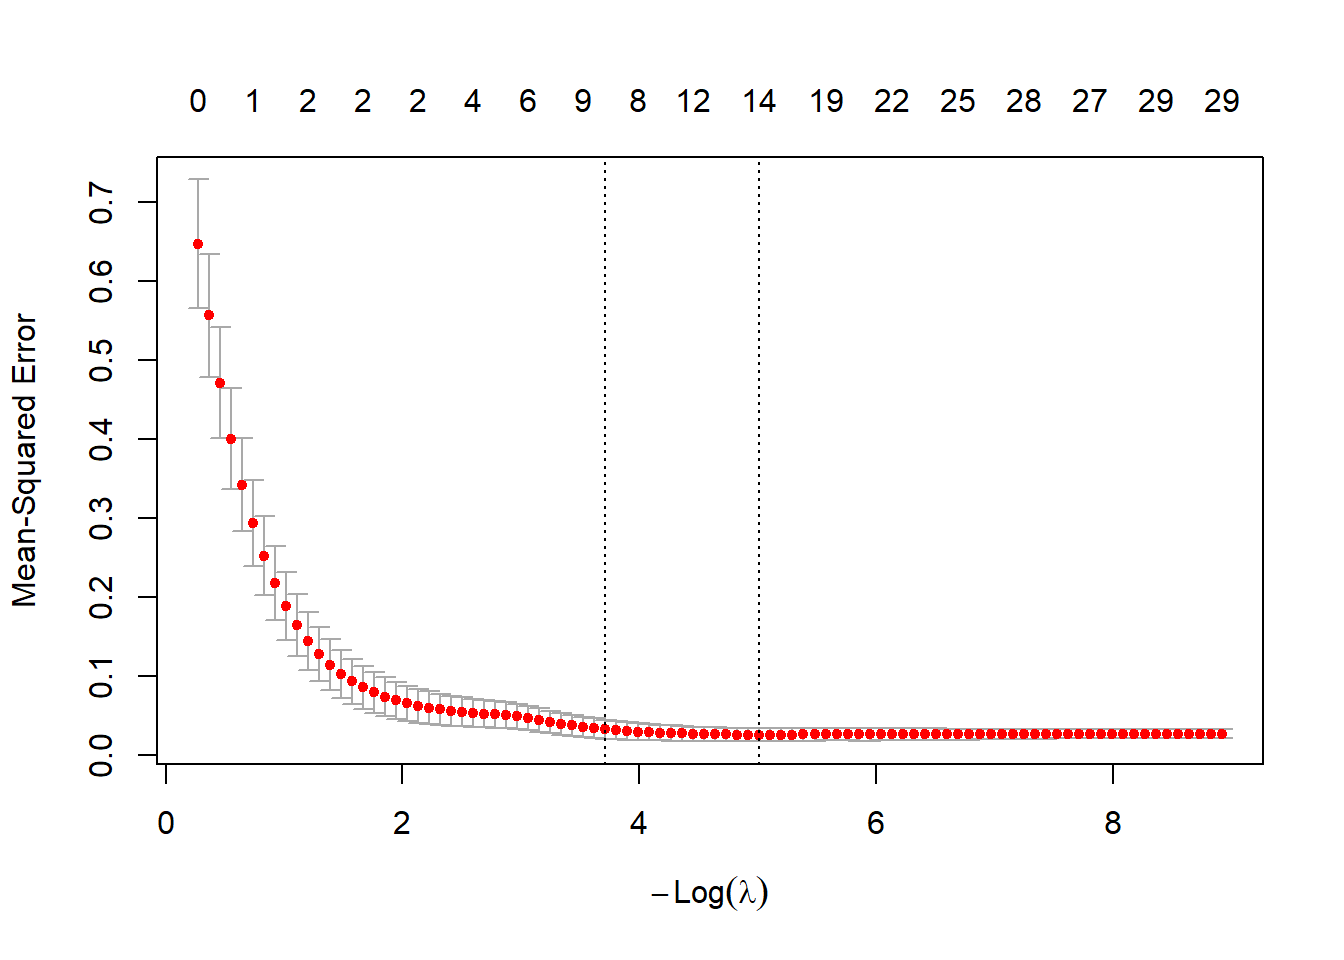
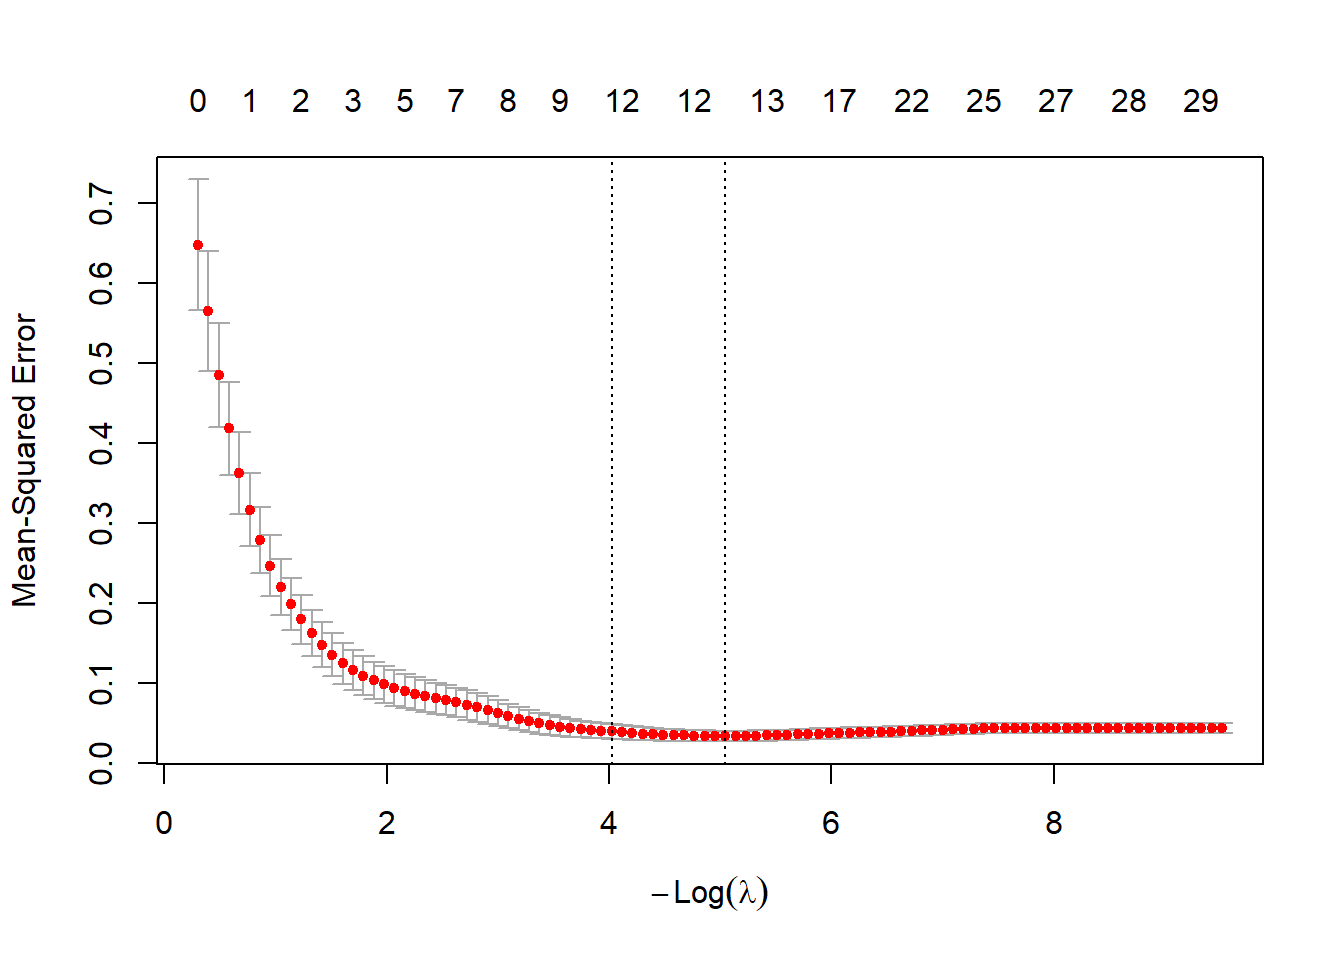
Built site for gh-pages

diff --git a/index.html b/index.html
@@ -7,7 +7,7 @@
 <meta name="viewport" content="width=device-width, initial-scale=1.0, user-scalable=yes">
 
 
-<title>Modelamiento de la proporción de pobreza para 2014 en chicago utilizando regresión espacial – Estadística Espacial</title>
+<title>Modelación de la proporción de pobreza para 2014 en chicago utilizando regresión espacial – Estadística Espacial</title>
 <style>
 code{white-space: pre-wrap;}
 span.smallcaps{font-variant: small-caps;}
@@ -224,7 +224,7 @@ window.Quarto = {
 
 <header id="title-block-header" class="quarto-title-block default">
 <div class="quarto-title">
-<h1 class="title">Modelamiento de la proporción de pobreza para 2014 en chicago utilizando regresión espacial</h1>
+<h1 class="title">Modelación de la proporción de pobreza para 2014 en chicago utilizando regresión espacial</h1>
 </div>
 
 
@@ -295,7 +295,7 @@ window.Quarto = {
 <span id="cb2-13"><a href="#cb2-13" aria-hidden="true" tabindex="-1"></a>datosmod1 <span class="ot">=</span> datos1[<span class="sc">-</span><span class="fu">c</span>(<span class="dv">1</span><span class="sc">:</span><span class="dv">5</span>)]</span>
 <span id="cb2-14"><a href="#cb2-14" aria-hidden="true" tabindex="-1"></a>datosmod1<span class="sc">$</span>Pov14P <span class="ot">&lt;-</span> datos<span class="sc">$</span>Pov14<span class="sc">/</span>datos<span class="sc">$</span>Pop2014</span>
 <span id="cb2-15"><a href="#cb2-15" aria-hidden="true" tabindex="-1"></a></span>
-<span id="cb2-16"><a href="#cb2-16" aria-hidden="true" tabindex="-1"></a>dfmod1 <span class="ot">&lt;-</span> datosmod1[,<span class="sc">-</span><span class="dv">30</span>] <span class="co"># Data que o incluye la variable de interés</span></span></code></pre></div><button title="Copy to Clipboard" class="code-copy-button"><i class="bi"></i></button></div>
+<span id="cb2-16"><a href="#cb2-16" aria-hidden="true" tabindex="-1"></a>dfmod1 <span class="ot">&lt;-</span> datosmod1[,<span class="sc">-</span><span class="dv">32</span>] <span class="co"># Data que no incluye la variable de interés</span></span></code></pre></div><button title="Copy to Clipboard" class="code-copy-button"><i class="bi"></i></button></div>
 </div>
 <p>Es importante subir el archivo <em>.shp</em> y definir las coordenadas,pues este nos permite generar mapas y es necesario para el calculo de la matriz <span class="math inline">\(W\)</span>. De esta forma:</p>
 <div class="cell">
@@ -320,10 +320,10 @@ window.Quarto = {
 <span id="cb4-3"><a href="#cb4-3" aria-hidden="true" tabindex="-1"></a>            <span class="at">x =</span> <span class="sc">~</span>Pov14P,</span>
 <span id="cb4-4"><a href="#cb4-4" aria-hidden="true" tabindex="-1"></a>            <span class="at">type =</span> <span class="st">"box"</span>) <span class="sc">%&gt;%</span> </span>
 <span id="cb4-5"><a href="#cb4-5" aria-hidden="true" tabindex="-1"></a>  <span class="fu">layout</span>(<span class="at">title =</span> <span class="st">"Proporción de personas en pobreza en 2014 de Chicago"</span>,</span>
-<span id="cb4-6"><a href="#cb4-6" aria-hidden="true" tabindex="-1"></a>         <span class="at">Xaxis =</span> <span class="fu">list</span>(<span class="at">title =</span> <span class="st">"Proporción de personas en pobreza"</span>))</span></code></pre></div><button title="Copy to Clipboard" class="code-copy-button"><i class="bi"></i></button></div>
+<span id="cb4-6"><a href="#cb4-6" aria-hidden="true" tabindex="-1"></a>         <span class="at">xaxis =</span> <span class="fu">list</span>(<span class="at">title =</span> <span class="st">"Proporción de personas en pobreza"</span>))</span></code></pre></div><button title="Copy to Clipboard" class="code-copy-button"><i class="bi"></i></button></div>
 <div class="cell-output-display">
-<div class="plotly html-widget html-fill-item" id="htmlwidget-99affdc7935488bc00f0" style="width:100%;height:464px;"></div>
-<script type="application/json" data-for="htmlwidget-99affdc7935488bc00f0">{"x":{"visdat":{"587832a13980":["function () ","plotlyVisDat"],"58784a1963e0":["function () ","data"]},"cur_data":"58784a1963e0","attrs":{"58784a1963e0":{"alpha_stroke":1,"sizes":[10,100],"spans":[1,20],"x":{},"type":"box","inherit":true}},"layout":{"margin":{"b":40,"l":60,"t":25,"r":10},"title":"Proporción de personas en pobreza en 2014 de Chicago","Xaxis":{"title":"Proporción de personas en pobreza"},"xaxis":{"domain":[0,1],"automargin":true,"title":"Pov14P"},"yaxis":{"domain":[0,1],"automargin":true},"hovermode":"closest","showlegend":false},"source":"A","config":{"modeBarButtonsToAdd":["hoverclosest","hovercompare"],"showSendToCloud":false},"data":[{"fillcolor":"rgba(31,119,180,0.5)","x":[0.32058672156459084,0.38621968175498222,0.36453008257963038,0.33678043584394834,0.23231047922270406,0.13009836397198271,0.47651755816948571,0.19932596891967796,0.35908215787198933,0.2574428278204639,0.088341056533827622,0.049788938196774546,0.12011296932107653,0.18913659550349518,0.14574634858056404,0.13804213135068152,0.1095394049195178,0.14447040498442368,0.20952585716273128,0.1884030183924732,0.21956031567080045,0.19058209985428332,0.19299169536155561,0.34194258460974042,0.15714133232130362,0.31787866935443432,0.4765157532433148,0.42385674115731836,0.24621810217490958,0.44465654212166295,0.23474899189819096,0.3288923038926469,0.28991680722719348,0.097770310158485085,0.37314079422382673,0.062384955972339687,0.12543739991696815,0.12140199725866457,0.34798017043592266,0.2632966055948941,0.18003565062388591,0.33530647985989492,0.31932773109243695,0.1517910447761194,0.26304018795039191,0.055866724113169612,0.26140602582496414,0.27116249197174053,0.22460929272505159,0.33210991906644083,0.62767732962447842,0.17070036410366246,0.079267766168724635,0.15159308472638949,0.26992975300249261,0.24524287190710681,0.11570104523926179,0.20539152759948653,0.35292562142410694,0.16003130707018001,0.24209405413437013,0.1000327171601505,0.18768109448277923,0.32856660686053329,0.38614612511671337,0.49617174048430229,0.37900697129288563,0.11920971630452912,0.12621177789717117,0.30507655793829158,0.035996571755070948,0.17998865140911671,0.037424415754208205,0.18092150170648463,0.19735599622285174,0.17461466097402129,0.024470117347402894],"type":"box","orientation":"h","marker":{"color":"rgba(31,119,180,1)","line":{"color":"rgba(31,119,180,1)"}},"line":{"color":"rgba(31,119,180,1)"},"xaxis":"x","yaxis":"y","frame":null}],"highlight":{"on":"plotly_click","persistent":false,"dynamic":false,"selectize":false,"opacityDim":0.20000000000000001,"selected":{"opacity":1},"debounce":0},"shinyEvents":["plotly_hover","plotly_click","plotly_selected","plotly_relayout","plotly_brushed","plotly_brushing","plotly_clickannotation","plotly_doubleclick","plotly_deselect","plotly_afterplot","plotly_sunburstclick"],"base_url":"https://plot.ly"},"evals":[],"jsHooks":[]}</script>
+<div class="plotly html-widget html-fill-item" id="htmlwidget-f229e92830e59c114522" style="width:100%;height:464px;"></div>
+<script type="application/json" data-for="htmlwidget-f229e92830e59c114522">{"x":{"visdat":{"27487cd3515d":["function () ","plotlyVisDat"],"27481de45a4f":["function () ","data"]},"cur_data":"27481de45a4f","attrs":{"27481de45a4f":{"alpha_stroke":1,"sizes":[10,100],"spans":[1,20],"x":{},"type":"box","inherit":true}},"layout":{"margin":{"b":40,"l":60,"t":25,"r":10},"title":"Proporción de personas en pobreza en 2014 de Chicago","xaxis":{"domain":[0,1],"automargin":true,"title":"Proporción de personas en pobreza"},"yaxis":{"domain":[0,1],"automargin":true},"hovermode":"closest","showlegend":false},"source":"A","config":{"modeBarButtonsToAdd":["hoverclosest","hovercompare"],"showSendToCloud":false},"data":[{"fillcolor":"rgba(31,119,180,0.5)","x":[0.32058672156459084,0.38621968175498222,0.36453008257963038,0.33678043584394834,0.23231047922270406,0.13009836397198271,0.47651755816948571,0.19932596891967796,0.35908215787198933,0.2574428278204639,0.088341056533827622,0.049788938196774546,0.12011296932107653,0.18913659550349518,0.14574634858056404,0.13804213135068152,0.1095394049195178,0.14447040498442368,0.20952585716273128,0.1884030183924732,0.21956031567080045,0.19058209985428332,0.19299169536155561,0.34194258460974042,0.15714133232130362,0.31787866935443432,0.4765157532433148,0.42385674115731836,0.24621810217490958,0.44465654212166295,0.23474899189819096,0.3288923038926469,0.28991680722719348,0.097770310158485085,0.37314079422382673,0.062384955972339687,0.12543739991696815,0.12140199725866457,0.34798017043592266,0.2632966055948941,0.18003565062388591,0.33530647985989492,0.31932773109243695,0.1517910447761194,0.26304018795039191,0.055866724113169612,0.26140602582496414,0.27116249197174053,0.22460929272505159,0.33210991906644083,0.62767732962447842,0.17070036410366246,0.079267766168724635,0.15159308472638949,0.26992975300249261,0.24524287190710681,0.11570104523926179,0.20539152759948653,0.35292562142410694,0.16003130707018001,0.24209405413437013,0.1000327171601505,0.18768109448277923,0.32856660686053329,0.38614612511671337,0.49617174048430229,0.37900697129288563,0.11920971630452912,0.12621177789717117,0.30507655793829158,0.035996571755070948,0.17998865140911671,0.037424415754208205,0.18092150170648463,0.19735599622285174,0.17461466097402129,0.024470117347402894],"type":"box","orientation":"h","marker":{"color":"rgba(31,119,180,1)","line":{"color":"rgba(31,119,180,1)"}},"line":{"color":"rgba(31,119,180,1)"},"xaxis":"x","yaxis":"y","frame":null}],"highlight":{"on":"plotly_click","persistent":false,"dynamic":false,"selectize":false,"opacityDim":0.20000000000000001,"selected":{"opacity":1},"debounce":0},"shinyEvents":["plotly_hover","plotly_click","plotly_selected","plotly_relayout","plotly_brushed","plotly_brushing","plotly_clickannotation","plotly_doubleclick","plotly_deselect","plotly_afterplot","plotly_sunburstclick"],"base_url":"https://plot.ly"},"evals":[],"jsHooks":[]}</script>
 </div>
 </div>
 <table class="caption-top table">
@@ -497,9 +497,9 @@ window.Quarto = {
 <p>De esta forma las variables seleccionadas para el lambda que minimiza son:</p>
 <div class="cell">
 <div class="code-copy-outer-scaffold"><div class="sourceCode cell-code" id="cb11"><pre class="sourceCode r code-with-copy"><code class="sourceCode r"><span id="cb11-1"><a href="#cb11-1" aria-hidden="true" tabindex="-1"></a>Lassonorm <span class="ot">&lt;-</span> <span class="fu">lm</span>(Pov14P <span class="sc">~</span> PopChng <span class="sc">+</span> Under5P <span class="sc">+</span> Under18P <span class="sc">+</span> Over65P <span class="sc">+</span></span>
-<span id="cb11-2"><a href="#cb11-2" aria-hidden="true" tabindex="-1"></a>                  Blk14P <span class="sc">+</span> AS14P <span class="sc">+</span> AI14P <span class="sc">+</span> NHP14P <span class="sc">+</span> Oth14P <span class="sc">+</span> Hisp14P <span class="sc">+</span></span>
-<span id="cb11-3"><a href="#cb11-3" aria-hidden="true" tabindex="-1"></a>                  PropCrRt <span class="sc">+</span> VlntCrRt <span class="sc">+</span> NoHS14 <span class="sc">+</span> ClgGrad14 <span class="sc">+</span></span>
-<span id="cb11-4"><a href="#cb11-4" aria-hidden="true" tabindex="-1"></a>                  HISave <span class="sc">+</span> SESave , <span class="at">data =</span> datosmod1)</span></code></pre></div><button title="Copy to Clipboard" class="code-copy-button"><i class="bi"></i></button></div>
+<span id="cb11-2"><a href="#cb11-2" aria-hidden="true" tabindex="-1"></a>                  Wht14P <span class="sc">+</span> Blk14P <span class="sc">+</span> NHP14P <span class="sc">+</span> Oth14P <span class="sc">+</span> </span>
+<span id="cb11-3"><a href="#cb11-3" aria-hidden="true" tabindex="-1"></a>                  PropCrRt <span class="sc">+</span> NoHS14 <span class="sc">+</span> ClgGrad14 <span class="sc">+</span></span>
+<span id="cb11-4"><a href="#cb11-4" aria-hidden="true" tabindex="-1"></a>                  Pov200P , <span class="at">data =</span> datosmod1)</span></code></pre></div><button title="Copy to Clipboard" class="code-copy-button"><i class="bi"></i></button></div>
 </div>
 </section>
 <section id="modelo-beta" class="level3">
@@ -514,9 +514,9 @@ window.Quarto = {
 </div>
 <p>De modo que las variables seleccionadas son:</p>
 <div class="cell">
-<div class="code-copy-outer-scaffold"><div class="sourceCode cell-code" id="cb13"><pre class="sourceCode r code-with-copy"><code class="sourceCode r"><span id="cb13-1"><a href="#cb13-1" aria-hidden="true" tabindex="-1"></a>Lassobet <span class="ot">&lt;-</span> betareg<span class="sc">::</span><span class="fu">betareg</span>(Pov14P <span class="sc">~</span> PopChng <span class="sc">+</span> Under18P <span class="sc">+</span> Over65P <span class="sc">+</span> Wht14P <span class="sc">+</span></span>
-<span id="cb13-2"><a href="#cb13-2" aria-hidden="true" tabindex="-1"></a>                               AI14P <span class="sc">+</span> NHP14P <span class="sc">+</span> Oth14P <span class="sc">+</span> VlntCrRt <span class="sc">+</span></span>
-<span id="cb13-3"><a href="#cb13-3" aria-hidden="true" tabindex="-1"></a>                               ClgGrad14 <span class="sc">+</span> HISave <span class="sc">+</span> SESave,</span>
+<div class="code-copy-outer-scaffold"><div class="sourceCode cell-code" id="cb13"><pre class="sourceCode r code-with-copy"><code class="sourceCode r"><span id="cb13-1"><a href="#cb13-1" aria-hidden="true" tabindex="-1"></a>Lassobet <span class="ot">&lt;-</span> betareg<span class="sc">::</span><span class="fu">betareg</span>(Pov14P <span class="sc">~</span> PopChng <span class="sc">+</span> Under5P <span class="sc">+</span> Under18P <span class="sc">+</span> Over21P <span class="sc">+</span> Over65P <span class="sc">+</span> Wht14P <span class="sc">+</span> Blk14P <span class="sc">+</span> </span>
+<span id="cb13-2"><a href="#cb13-2" aria-hidden="true" tabindex="-1"></a>                               AI14P <span class="sc">+</span> NHP14P <span class="sc">+</span> Oth14P <span class="sc">+</span> PropCrRt <span class="sc">+</span> ChldPov14 <span class="sc">+</span> NoHS14 <span class="sc">+</span> </span>
+<span id="cb13-3"><a href="#cb13-3" aria-hidden="true" tabindex="-1"></a>                               ClgGrad14 <span class="sc">+</span> Unemp14 <span class="sc">+</span> Pov200P,</span>
 <span id="cb13-4"><a href="#cb13-4" aria-hidden="true" tabindex="-1"></a>                             <span class="at">data =</span> datosmod1 , <span class="at">link =</span> <span class="st">"logit"</span>)</span></code></pre></div><button title="Copy to Clipboard" class="code-copy-button"><i class="bi"></i></button></div>
 </div>
 </section>
@@ -524,22 +524,18 @@ window.Quarto = {
 <section id="correlación-y-multicolinealidad" class="level2">
 <h2 class="anchored" data-anchor-id="correlación-y-multicolinealidad">Correlación y multicolinealidad</h2>
 <p>Para cada uno de los conjuntos de variables elegidas se realizará un <em>pairplot</em> y se calculará el <em>Factor de Inflación de Varianza</em> (VIF) para determinar la multicolinealidad, es importante tener en cuenta que se reportaran correlaciones altas <span class="math inline">\((\rho &gt; 0.7)\)</span> y valores graves de multicolinealidad <span class="math inline">\((VIF &gt; 10)\)</span>. El conjunto de variables seleccionado para cada uno de los métodos es:</p>
-<section id="nota-recordemos-que-el-vif_j-frac11---r2_j-por-lo-que-observar-correlaciones-altas-pueden-ser-un-indicio-de-un-vif-alto-esta-condición-no-es-necesaria-ni-suficiente-y-por-tanto-de-multicolinealidad-grave." class="level5">
-<h5 class="anchored" data-anchor-id="nota-recordemos-que-el-vif_j-frac11---r2_j-por-lo-que-observar-correlaciones-altas-pueden-ser-un-indicio-de-un-vif-alto-esta-condición-no-es-necesaria-ni-suficiente-y-por-tanto-de-multicolinealidad-grave.">Nota: Recordemos que el <span class="math inline">\(VIF_j = \frac{1}{1 - R^2_j}\)</span>, por lo que observar correlaciones altas pueden ser un indicio de un VIF alto (esta condición no es necesaria ni suficiente), y por tanto de multicolinealidad grave.</h5>
-</section>
+<p><em><strong>Nota:</strong> Recordemos que el</em> <span class="math inline">\(VIF_j = \frac{1}{1 - R^2_j}\)</span><em>, por lo que observar correlaciones altas pueden ser un indicio de un VIF alto (esta condición no es necesaria ni suficiente), y por tanto de multicolinealidad grave.</em></p>
 <section id="modelo-normal-1" class="level3">
 <h3 class="anchored" data-anchor-id="modelo-normal-1">Modelo Normal</h3>
 <div class="cell">
 <div class="code-copy-outer-scaffold"><div class="sourceCode cell-code" id="cb14"><pre class="sourceCode r code-with-copy"><code class="sourceCode r"><span id="cb14-1"><a href="#cb14-1" aria-hidden="true" tabindex="-1"></a>df1 <span class="ot">=</span> datosmod1 <span class="sc">%&gt;%</span> dplyr<span class="sc">::</span><span class="fu">select</span>(<span class="fu">c</span>(PopChng , Under5P , Under18P , Over65P ,</span>
-<span id="cb14-2"><a href="#cb14-2" aria-hidden="true" tabindex="-1"></a>                  Blk14P , AS14P , AI14P , NHP14P , Oth14P , Hisp14P ,</span>
-<span id="cb14-3"><a href="#cb14-3" aria-hidden="true" tabindex="-1"></a>                  PropCrRt , VlntCrRt , NoHS14 , ClgGrad14 ,</span>
-<span id="cb14-4"><a href="#cb14-4" aria-hidden="true" tabindex="-1"></a>                  HISave , SESave))</span></code></pre></div><button title="Copy to Clipboard" class="code-copy-button"><i class="bi"></i></button></div>
+<span id="cb14-2"><a href="#cb14-2" aria-hidden="true" tabindex="-1"></a>                  Wht14P , Blk14P , NHP14P , Oth14P , </span>
+<span id="cb14-3"><a href="#cb14-3" aria-hidden="true" tabindex="-1"></a>                  PropCrRt , NoHS14 , ClgGrad14 ,</span>
+<span id="cb14-4"><a href="#cb14-4" aria-hidden="true" tabindex="-1"></a>                  Pov200P))</span></code></pre></div><button title="Copy to Clipboard" class="code-copy-button"><i class="bi"></i></button></div>
 </div>
-<p>Con respecto al pairplot se considera importante mencionar que algunas parejas de variables con correlaciones altas son:</p>
+<p>Con respecto al pairplot se considera importante mencionar que la única correlación fuerte es:</p>
 <ul>
-<li><p><strong>VlntCrRt - Blk14P:</strong> Con una correlación de <span class="math inline">\(0.848\)</span>.</p></li>
-<li><p><strong>Hisp14P - Oth14P:</strong> Con una correlación de <span class="math inline">\(0.894\)</span>.</p></li>
-<li><p><strong>SESave - HISave:</strong> Con una correlación de <span class="math inline">\(0.713\)</span>.</p></li>
+<li><strong>Wht14P - Blk14P:</strong> Con una correlación de <span class="math inline">\(-0.921\)</span>.</li>
 </ul>
 <div class="cell">
 <div class="code-copy-outer-scaffold"><div class="sourceCode cell-code" id="cb15"><pre class="sourceCode r code-with-copy"><code class="sourceCode r"><span id="cb15-1"><a href="#cb15-1" aria-hidden="true" tabindex="-1"></a><span class="fu">ggpairs</span>(df1)</span></code></pre></div><button title="Copy to Clipboard" class="code-copy-button"><i class="bi"></i></button></div>
@@ -555,24 +551,25 @@ window.Quarto = {
 <div class="cell">
 <div class="code-copy-outer-scaffold"><div class="sourceCode cell-code" id="cb16"><pre class="sourceCode r code-with-copy"><code class="sourceCode r"><span id="cb16-1"><a href="#cb16-1" aria-hidden="true" tabindex="-1"></a><span class="fu">vif</span>(Lassonorm)</span></code></pre></div><button title="Copy to Clipboard" class="code-copy-button"><i class="bi"></i></button></div>
 <div class="cell-output cell-output-stdout">
-<pre><code>  PopChng   Under5P  Under18P   Over65P    Blk14P     AS14P     AI14P    NHP14P 
- 1.567719  1.862017  6.659138  2.688322 13.283415  3.493181  1.424189  1.615266 
-   Oth14P   Hisp14P  PropCrRt  VlntCrRt    NoHS14 ClgGrad14    HISave    SESave 
- 5.885807 18.950192  3.898457 14.494171  2.447871  3.398519 19.487018  4.842867 </code></pre>
+<pre><code>  PopChng   Under5P  Under18P   Over65P    Wht14P    Blk14P    NHP14P    Oth14P 
+ 1.145064  1.604762  4.940607  2.550976 21.449779 23.792971  1.520549  4.534839 
+ PropCrRt    NoHS14 ClgGrad14   Pov200P 
+ 2.026783  2.199254  3.052471  4.936709 </code></pre>
 </div>
 </div>
 </section>
 <section id="modelo-beta-1" class="level3">
 <h3 class="anchored" data-anchor-id="modelo-beta-1">Modelo Beta</h3>
 <div class="cell">
-<div class="code-copy-outer-scaffold"><div class="sourceCode cell-code" id="cb18"><pre class="sourceCode r code-with-copy"><code class="sourceCode r"><span id="cb18-1"><a href="#cb18-1" aria-hidden="true" tabindex="-1"></a>df2 <span class="ot">=</span> datosmod1 <span class="sc">%&gt;%</span> dplyr<span class="sc">::</span><span class="fu">select</span>(<span class="fu">c</span>(PopChng , Under18P , Over65P , Wht14P ,</span>
-<span id="cb18-2"><a href="#cb18-2" aria-hidden="true" tabindex="-1"></a>                               AI14P , NHP14P , Oth14P , VlntCrRt ,</span>
-<span id="cb18-3"><a href="#cb18-3" aria-hidden="true" tabindex="-1"></a>                               ClgGrad14 , HISave , SESave))</span></code></pre></div><button title="Copy to Clipboard" class="code-copy-button"><i class="bi"></i></button></div>
+<div class="code-copy-outer-scaffold"><div class="sourceCode cell-code" id="cb18"><pre class="sourceCode r code-with-copy"><code class="sourceCode r"><span id="cb18-1"><a href="#cb18-1" aria-hidden="true" tabindex="-1"></a>df2 <span class="ot">=</span> datosmod1 <span class="sc">%&gt;%</span> dplyr<span class="sc">::</span><span class="fu">select</span>(<span class="fu">c</span>(PopChng , Under5P , Under18P , Over21P , Over65P , Wht14P , Blk14P , </span>
+<span id="cb18-2"><a href="#cb18-2" aria-hidden="true" tabindex="-1"></a>                               AI14P , NHP14P , Oth14P , PropCrRt , ChldPov14 , NoHS14, </span>
+<span id="cb18-3"><a href="#cb18-3" aria-hidden="true" tabindex="-1"></a>                               ClgGrad14 , Unemp14 , Pov200P))</span></code></pre></div><button title="Copy to Clipboard" class="code-copy-button"><i class="bi"></i></button></div>
 </div>
-<p>Con respecto al pairplot se considera importante mencionar que las parejas con correlaciones altas son:</p>
+<p>Con respecto al pairplot se considera importante mencionar algunas parejas con correlaciones altas son:</p>
 <ul>
-<li><p><strong>HISave - Under18P:</strong> Con una correlación de <span class="math inline">\(0.791\)</span>.</p></li>
-<li><p><strong>VlntCrRt - Wht14P y VlntCrRt - SESave:</strong> Con una correlación de <span class="math inline">\(-0.821\)</span> y <span class="math inline">\(-0.713\)</span> respectivamente.</p></li>
+<li><p><strong>Over21P - Under18P y Pov200P - Over21P:</strong> Con una correlación de <span class="math inline">\(-0.970\)</span> y <span class="math inline">\(-0.737\)</span>.</p></li>
+<li><p><strong>Wht14P - Blk14P:</strong> Con una correlación de <span class="math inline">\(-0.921\)</span>.</p></li>
+<li><p><strong>Unemp14 - ChldPov14:</strong> Con una correlación de <span class="math inline">\(0.835\)</span>.</p></li>
 </ul>
 <div class="cell">
 <div class="code-copy-outer-scaffold"><div class="sourceCode cell-code" id="cb19"><pre class="sourceCode r code-with-copy"><code class="sourceCode r"><span id="cb19-1"><a href="#cb19-1" aria-hidden="true" tabindex="-1"></a><span class="fu">ggpairs</span>(df2)</span></code></pre></div><button title="Copy to Clipboard" class="code-copy-button"><i class="bi"></i></button></div>
@@ -584,14 +581,14 @@ window.Quarto = {
 </div>
 </div>
 </div>
-<p>Evaluando el VIF se observa que no se tiene multicolinealidad grave, pero si moderada.</p>
+<p>Evaluando el VIF se rectifica que si hay multicolinealidad grave, por lo que antes de evaluar supuestos en el modelo se debe corregir este problema.</p>
 <div class="cell">
 <div class="code-copy-outer-scaffold"><div class="sourceCode cell-code" id="cb20"><pre class="sourceCode r code-with-copy"><code class="sourceCode r"><span id="cb20-1"><a href="#cb20-1" aria-hidden="true" tabindex="-1"></a><span class="fu">vif</span>(Lassobet)</span></code></pre></div><button title="Copy to Clipboard" class="code-copy-button"><i class="bi"></i></button></div>
 <div class="cell-output cell-output-stdout">
-<pre><code>  PopChng  Under18P   Over65P    Wht14P     AI14P    NHP14P    Oth14P  VlntCrRt 
- 1.630537  4.908402  2.575745  4.066680  1.187699  1.342971  2.845145  5.198865 
-ClgGrad14    HISave    SESave 
- 3.304538  8.477677  4.426831 </code></pre>
+<pre><code>  PopChng   Under5P  Under18P   Over21P   Over65P    Wht14P    Blk14P     AI14P 
+ 1.283819  1.843576 25.102410 31.907906  3.513455 18.890836 25.696617  1.396511 
+   NHP14P    Oth14P  PropCrRt ChldPov14    NoHS14 ClgGrad14   Unemp14   Pov200P 
+ 1.614650  4.960458  2.268921 12.374672 10.127573  4.137886  6.576293  5.773048 </code></pre>
 </div>
 </div>
 </section>
